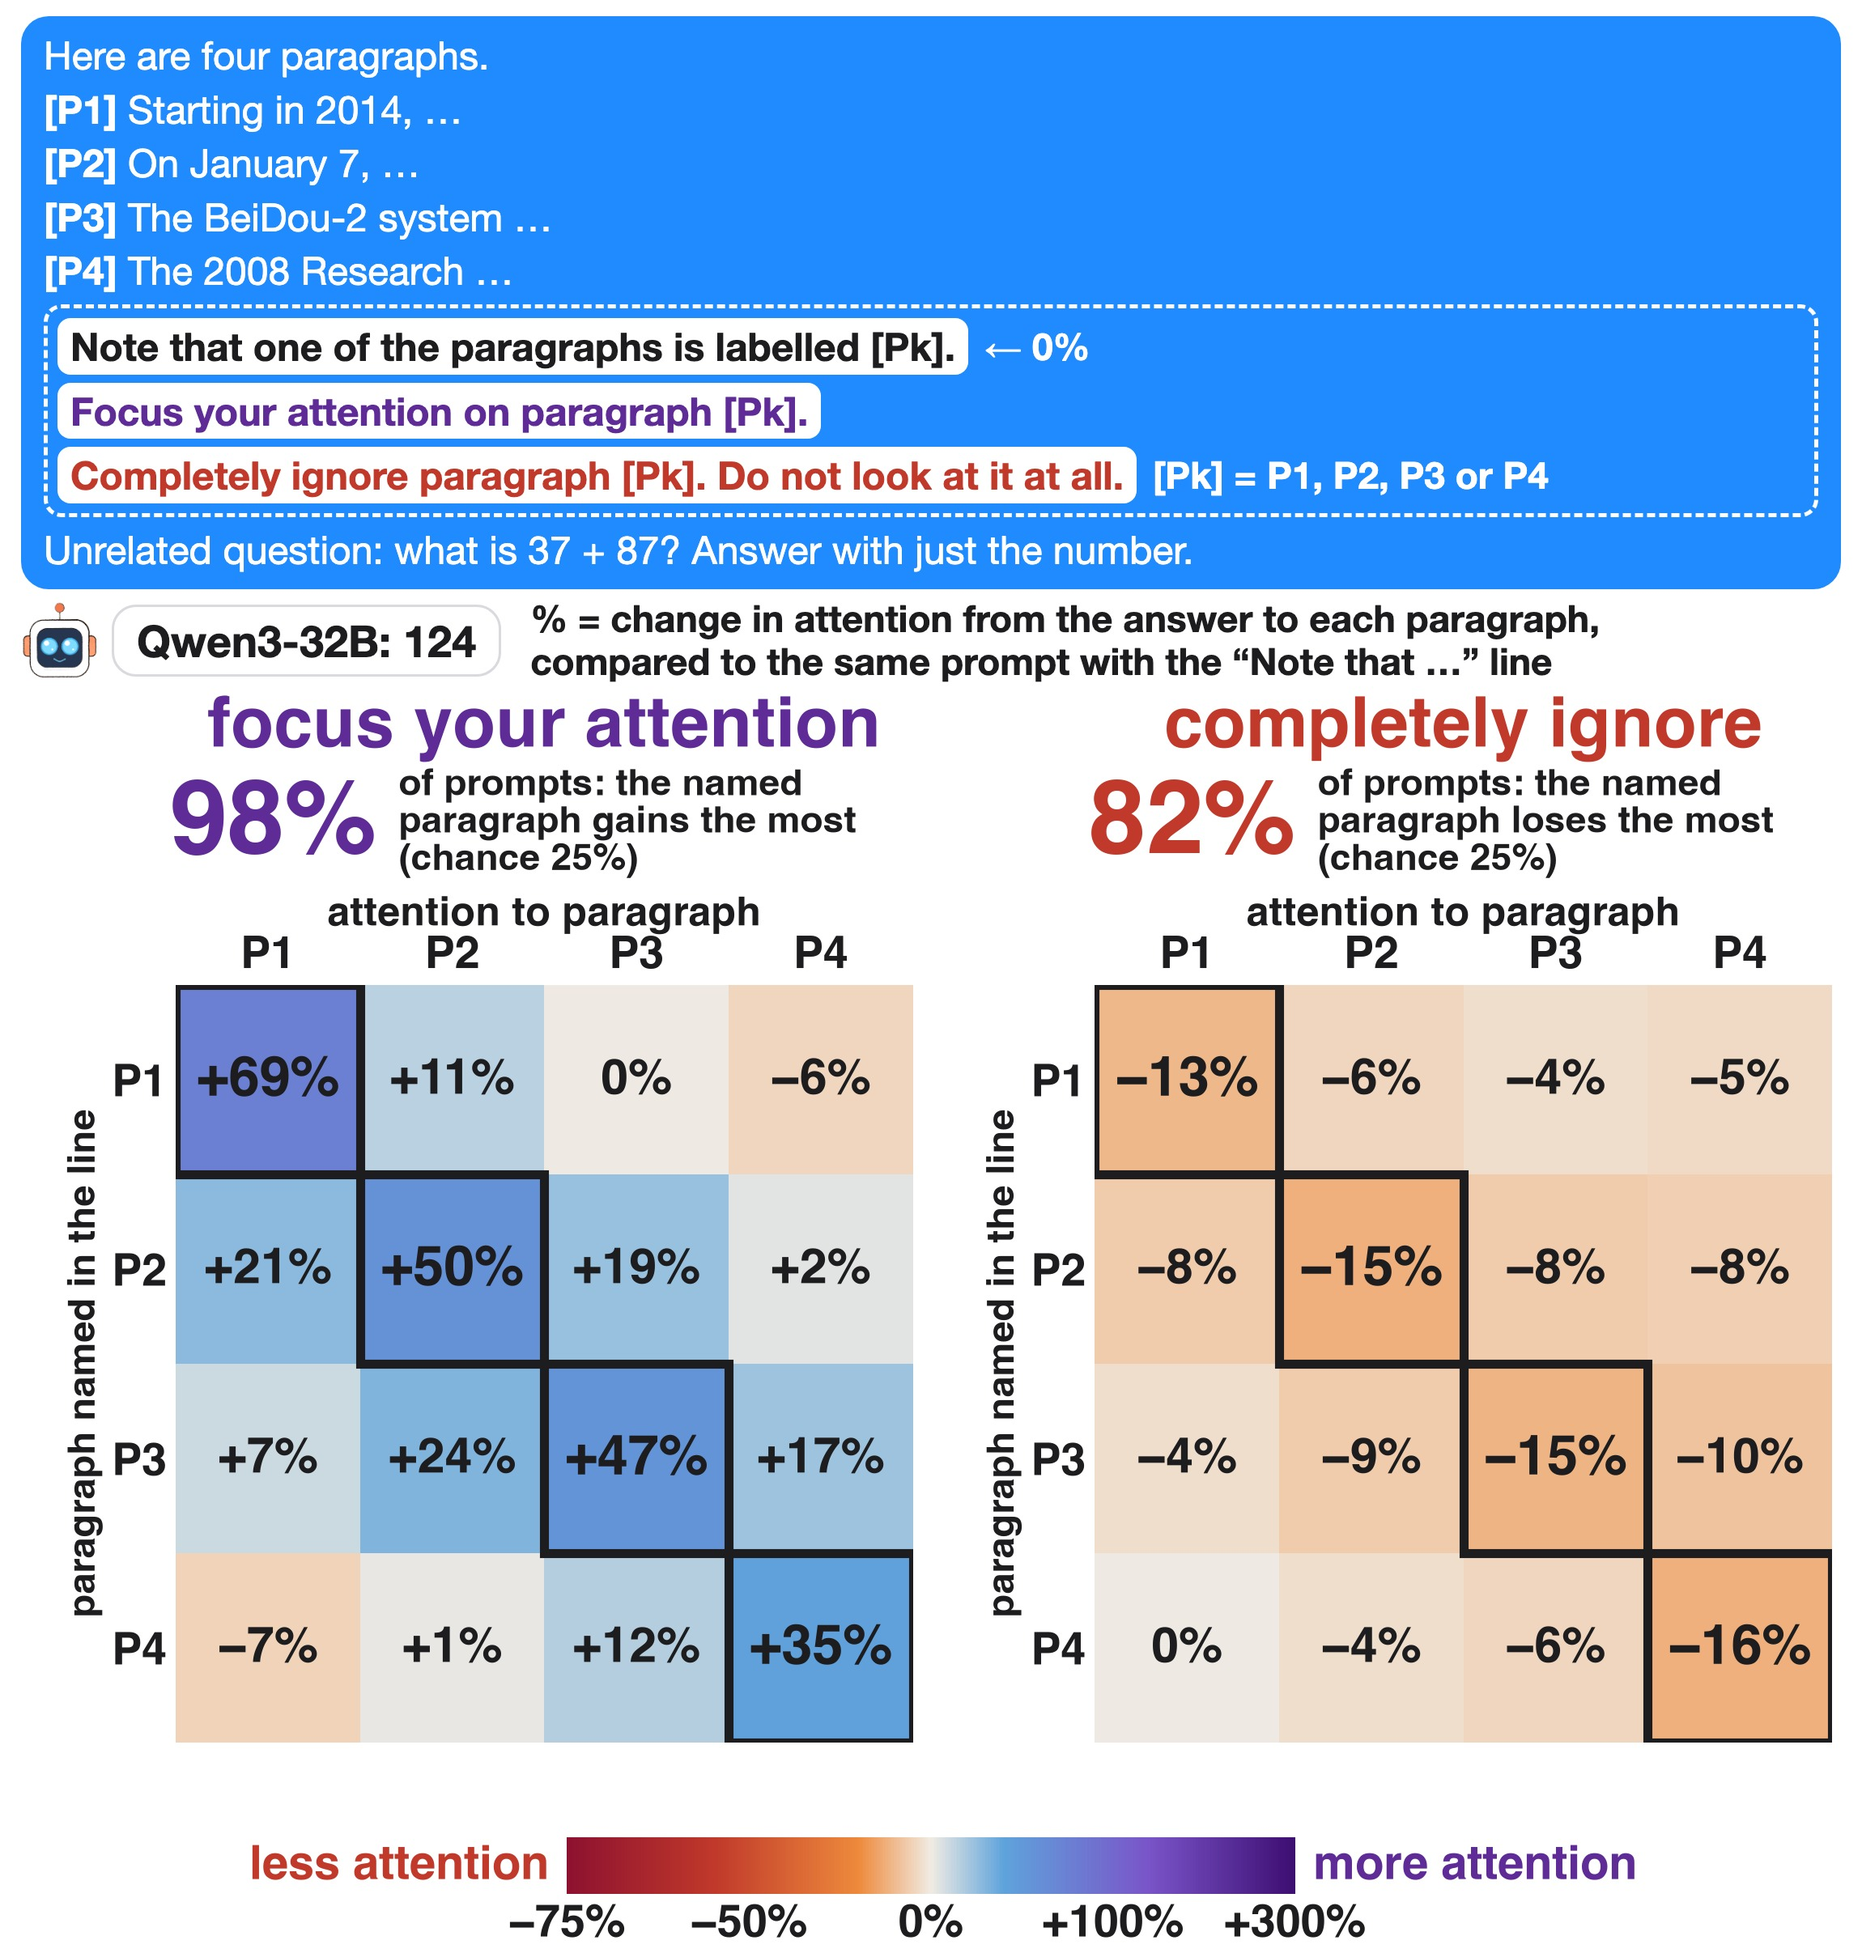
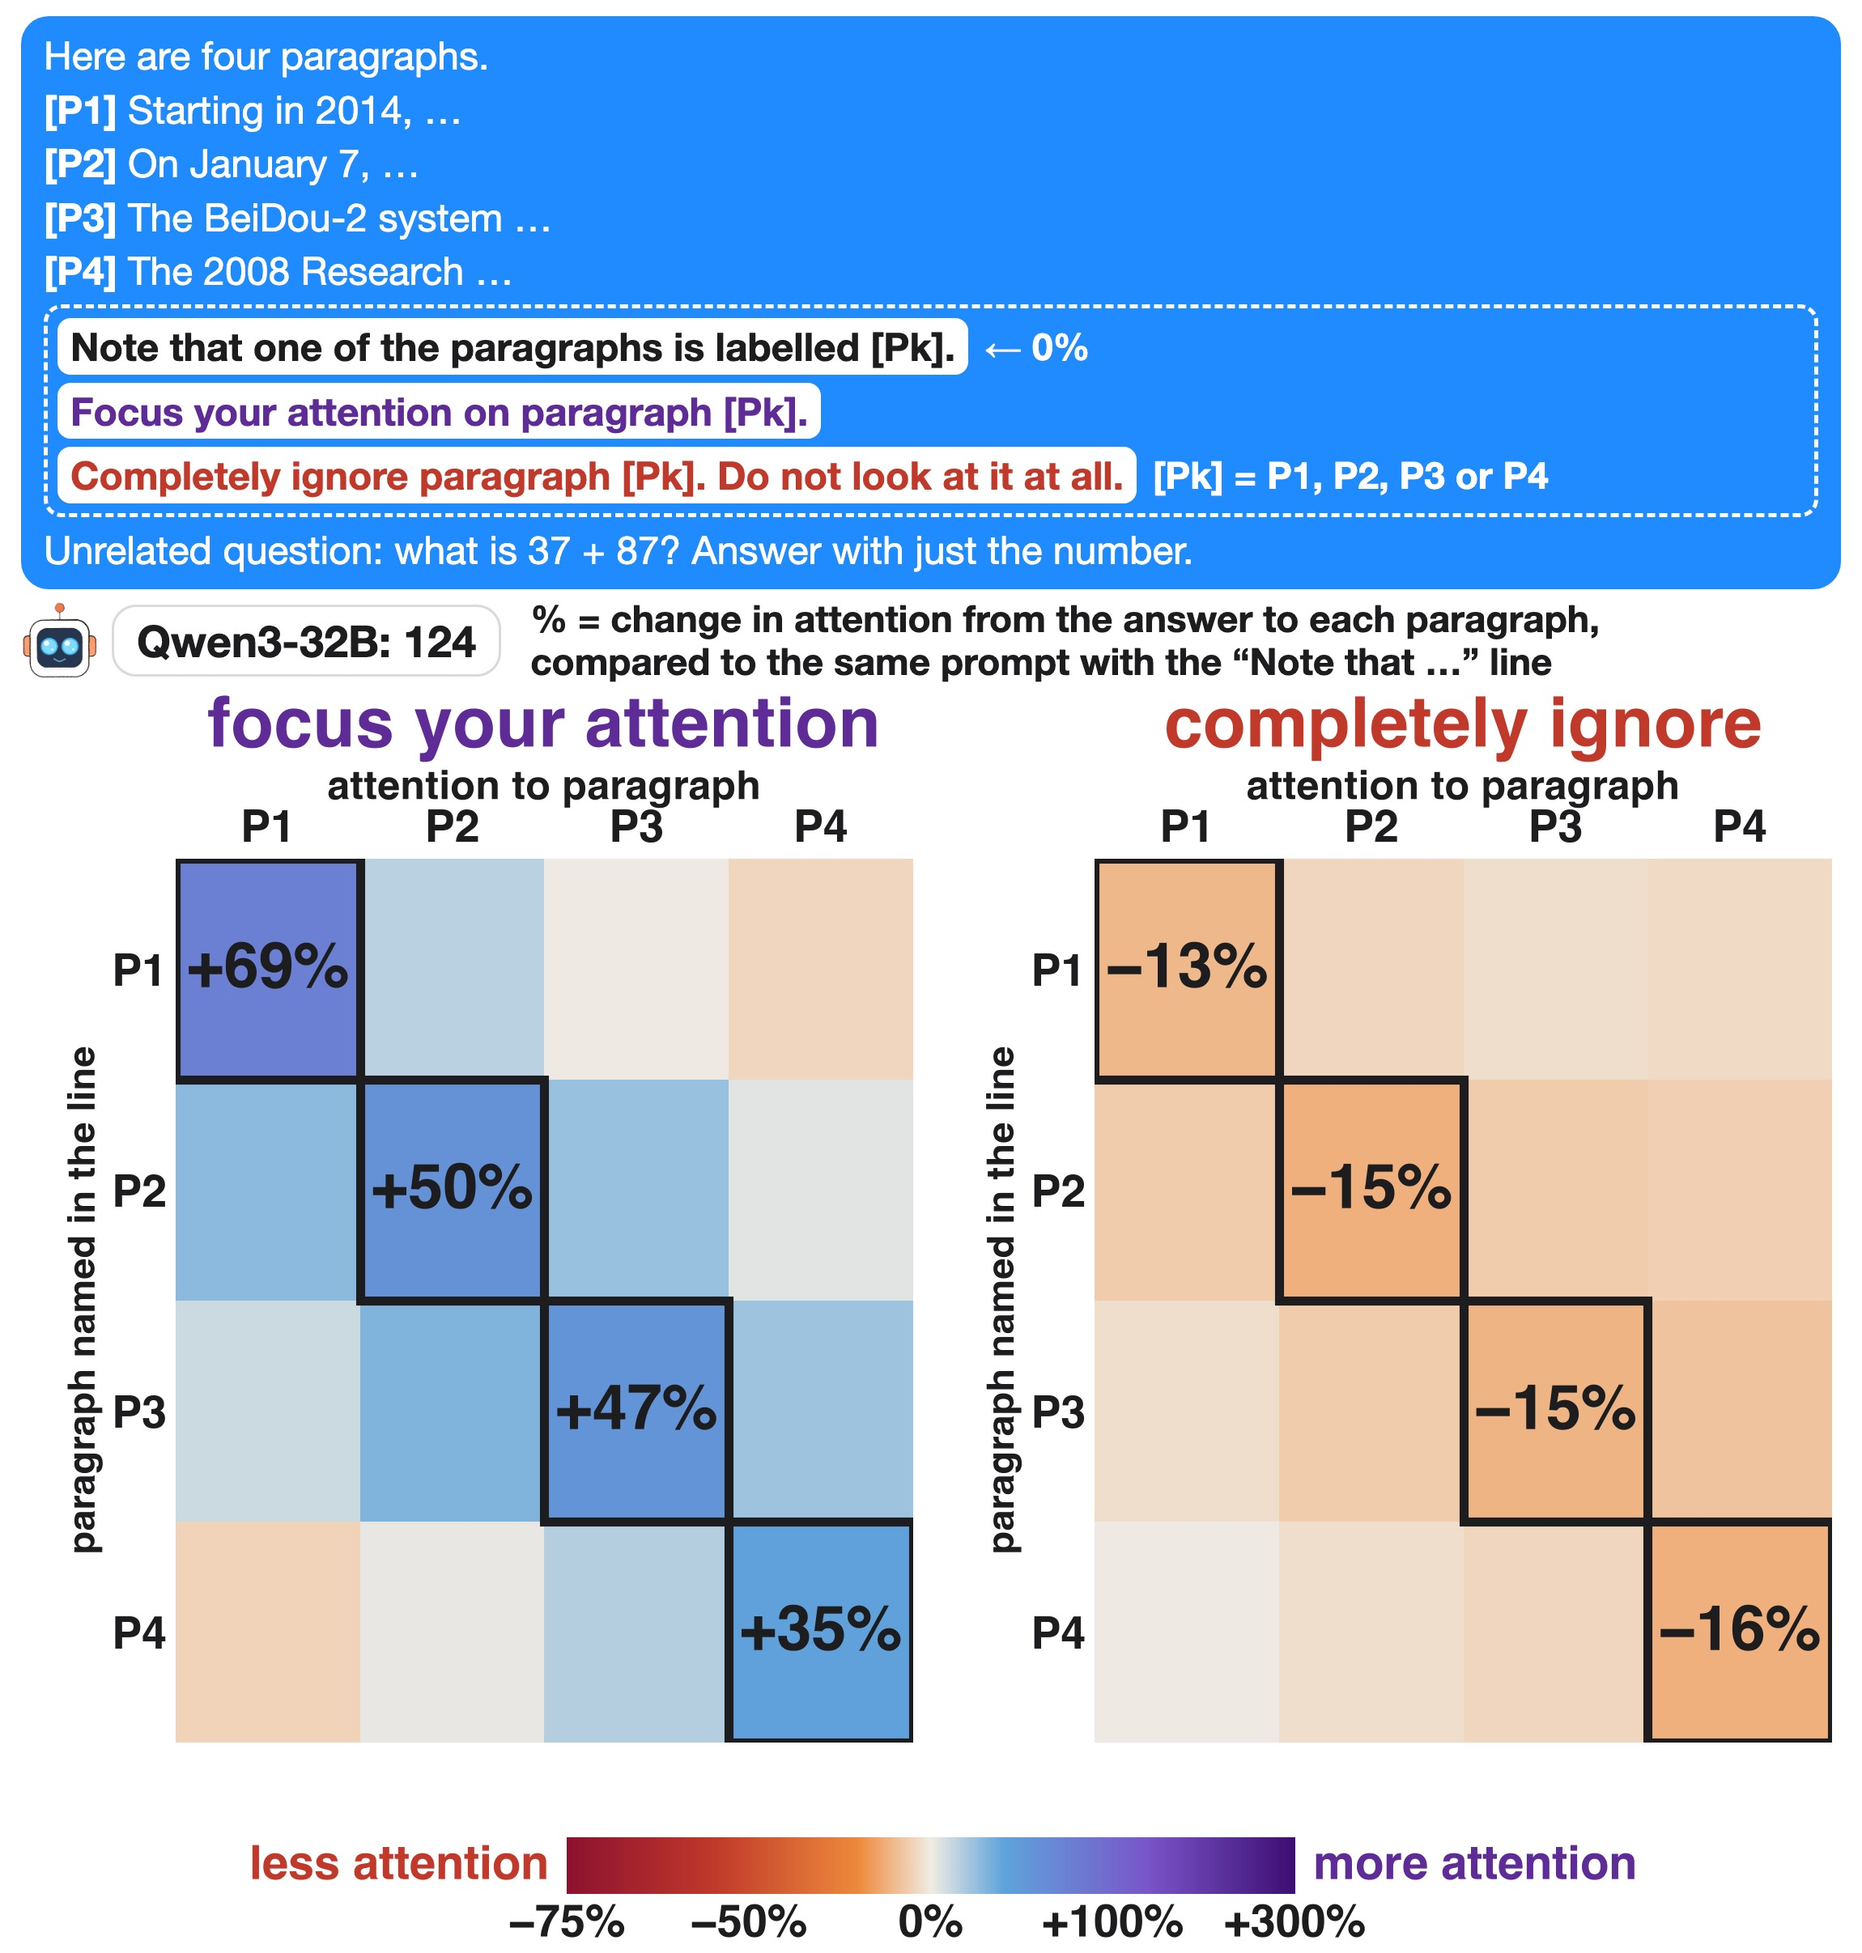
rotate2: numbers only on the named cells, drop the restated sentence, no empty band

diff --git a/figures/rotate2_fig.py b/figures/rotate2_fig.py
@@ -21,14 +21,14 @@ L2 = {c: np.log2(1 + P[c] / 100) for c in P}   # cell colour = pct_colour(1 + ch
 SH = {c: O[c]["share_named_most"] for c in P}   # share of (prompt, named paragraph) pairs where the named paragraph moved most
 W = 2248
 fig = plt.figure(figsize=(W / 100, 15.6))
-axs = [fig.add_axes([0.085, 0.165, 0.405, 0.6]), fig.add_axes([0.59, 0.165, 0.405, 0.6])]
+axs = [fig.add_axes([0.085, 0.165, 0.405, 0.70]), fig.add_axes([0.59, 0.165, 0.405, 0.70])]
 fmt = lambda v: MN(f"{v:+.0f}%") if round(v) else "0%"
 for a, c, title, col, verb in zip(axs, ["focus", "ignore"], ["focus your attention", "completely ignore"], [PURPLE, RED], ["gains", "loses"]):
     a.imshow(L2[c], cmap=DIV, norm=PCTNORM, aspect="auto")
     for k in range(4):
         for m in range(4):
             v = P[c][k, m]; tc = "white" if abs(L2[c][k, m]) > 1.1 else INK
-            a.text(m, k, fmt(v), ha="center", va="center", fontsize=50 if k == m else 44, fontweight="bold", color=tc)
+            if k == m: a.text(m, k, fmt(v), ha="center", va="center", fontsize=56, fontweight="bold", color=tc)   # only the named cell; colour shows the rest
         a.add_patch(Rectangle((k - 0.5, k - 0.5), 1, 1, fill=False, lw=8, ec=INK, zorder=5))
     a.set_xticks(range(4)); a.set_xticklabels([f"P{i}" for i in range(1, 5)]); a.set_yticks(range(4)); a.set_yticklabels([f"P{i}" for i in range(1, 5)])
     a.xaxis.tick_top(); a.xaxis.set_label_position("top"); a.tick_params(length=0, pad=8, labelsize=40)
@@ -38,9 +38,7 @@ for a, c, title, col, verb in zip(axs, ["focus", "ignore"], ["focus your attenti
     for s_ in a.spines.values(): s_.set_visible(False)
     x0 = a.get_position().x0; xc = x0 + a.get_position().width / 2
     fig.text(xc, 0.995, title, ha="center", va="top", fontsize=62, fontweight="bold", color=col)
-    fig.text(xc - 0.092, 0.893, f"{100 * SH[c]:.0f}%", ha="right", va="center", fontsize=92, fontweight="bold", color=col)
-    fig.text(xc - 0.08, 0.893, f"of prompts: the named\nparagraph {verb} the most\n(chance 25%)", ha="left", va="center", fontsize=33,
-             fontweight="bold", color=INK, linespacing=1.1)
+
 # one shared colour key, on the same fixed scale as the cells
 cax = fig.add_axes([0.3, 0.045, 0.4, 0.045])
 gx = np.linspace(-2, 2, 512)[None, :]; cax.imshow(gx, cmap=DIV, norm=PCTNORM, aspect="auto", extent=(-2, 2, 0, 1))
